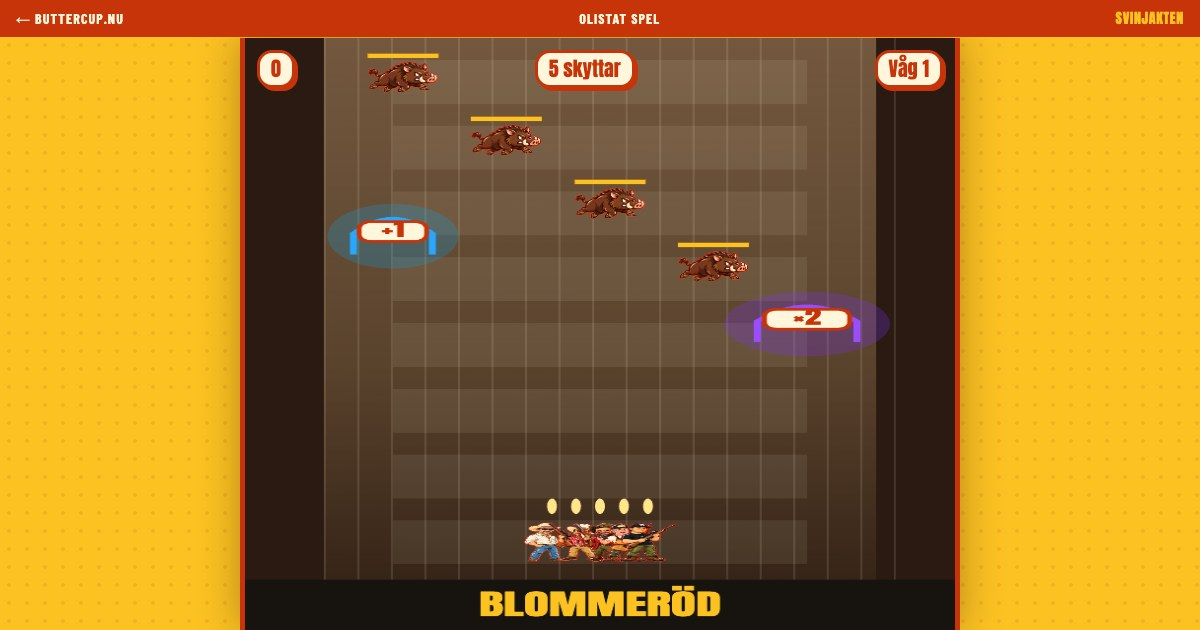
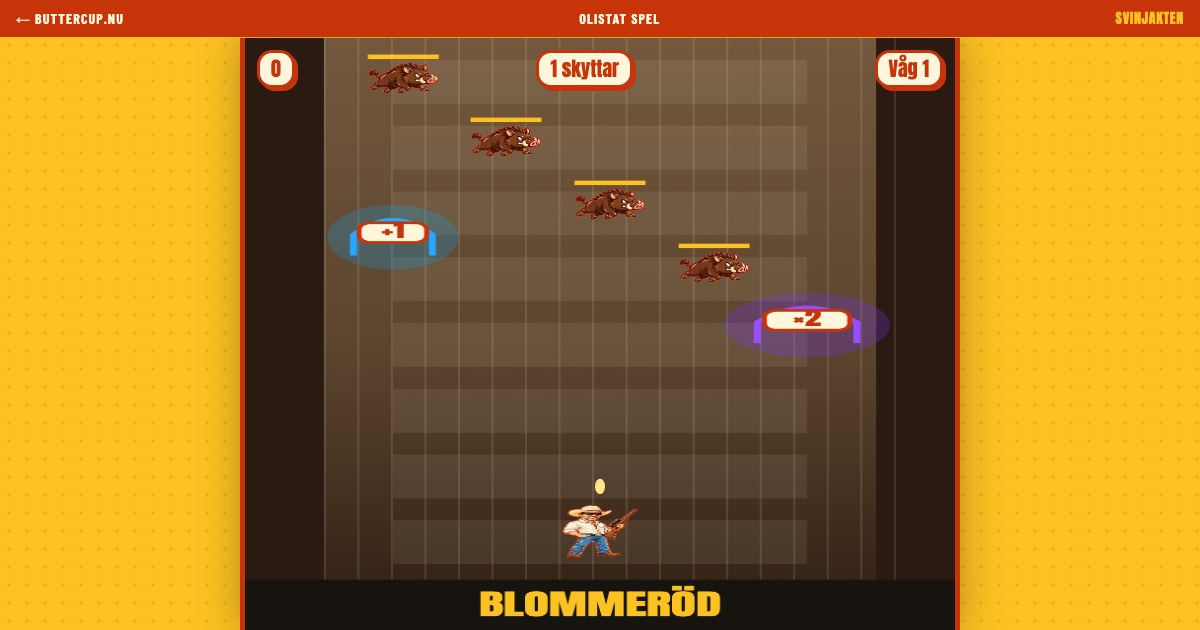
Svinjakten: starta med en skytt och väx med +1-portar

diff --git a/svinjakt/index.html b/svinjakt/index.html
@@ -23,7 +23,7 @@
 </head>
 <body>
 <div class="bc-bar"><a href="/">← Buttercup.nu</a><span>Olistat spel</span><b>Svinjakten</b></div>
-<div class="wrap"><div class="cab"><canvas id="game" width="720" height="1080"></canvas><div class="hud"><div class="pill" id="score">0</div><div class="pill" id="crew">5 skyttar</div><div class="pill" id="wave">Våg 1</div></div><div class="center" id="overlay"><div class="card"><p class="small">Blommeröd runner shooter</p><h1>SVIN<br>JAKTEN</h1><p>Dra Carl, Hugo, Peter, Jocke och Borka åt vänster/höger. Samla +1 och ×2, skjut vapenkort och stoppa megasvinet innan det når scenen.</p><div class="legend"><span>+1 skytt</span><span>×2 gäng</span><span>Garibaldi = eldkraft</span><span>Megasvin = boss</span></div><button id="start">Kör</button></div></div></div></div>
+<div class="wrap"><div class="cab"><canvas id="game" width="720" height="1080"></canvas><div class="hud"><div class="pill" id="score">0</div><div class="pill" id="crew">1 skytt</div><div class="pill" id="wave">Våg 1</div></div><div class="center" id="overlay"><div class="card"><p class="small">Blommeröd runner shooter</p><h1>SVIN<br>JAKTEN</h1><p>Börja med Peter. Skjut +1-portar så ansluter Hugo, Carl, Jocke och Borka en efter en. Dra gänget åt vänster/höger, skjut vapenkort och stoppa megasvinet innan det når scenen.</p><div class="legend"><span>+1 skytt</span><span>×2 gäng</span><span>Garibaldi = eldkraft</span><span>Megasvin = boss</span></div><button id="start">Kör</button></div></div></div></div>
 <script>
 (()=>{
 const cv=document.getElementById('game'),ctx=cv.getContext('2d');
@@ -31,13 +31,13 @@ const scoreEl=document.getElementById('score'),crewEl=document.getElementById('c
 const W=720,H=1080,assets={};
 const names=['peter','hugo','carl','jocke','borka'];
 [...names,'boar','megaboar','gate_plus','gate_x2'].forEach(k=>{const im=new Image();im.src=`img/${k}.webp`;assets[k]=im});
-let t=0,last=0,run=false,over=false,score=0,wave=1,kills=0,player={x:W/2,y:H-160,target:W/2},crew=5,bullets=[],boars=[],gates=[],cards=[],particles=[],power=1,fireTimer=0,spawnTimer=0,gateTimer=0,cardTimer=0,shake=0;
+let t=0,last=0,run=false,over=false,score=0,wave=1,kills=0,player={x:W/2,y:H-180,target:W/2},crew=5,bullets=[],boars=[],gates=[],cards=[],particles=[],power=1,fireTimer=0,spawnTimer=0,gateTimer=0,cardTimer=0,shake=0;
 function clamp(v,a,b){return Math.max(a,Math.min(b,v))}function rnd(a,b){return a+Math.random()*(b-a)}function hit(a,b){return Math.abs(a.x-b.x)<(a.w+b.w)/2&&Math.abs(a.y-b.y)<(a.h+b.h)/2}
-function reset(){t=0;last=0;run=true;over=false;score=0;wave=1;kills=0;player.x=player.target=W/2;crew=5;bullets=[];boars=[];gates=[];cards=[];particles=[];power=1;fireTimer=0;spawnTimer=.8;gateTimer=3.5;cardTimer=5.5;shake=0;for(let i=0;i<4;i++){spawnBoar(false);boars[i].y=70+i*115;boars[i].x=160+i*105}gates.push({x:150,y:360,w:95,h:95,typ:'plus',img:'gate_plus',vy:86});gates.push({x:570,y:520,w:120,h:95,typ:'x2',img:'gate_x2',vy:86});overlay.classList.add('hide');requestAnimationFrame(loop)}
+function reset(){t=0;last=0;run=true;over=false;score=0;wave=1;kills=0;player.x=player.target=W/2;crew=1;bullets=[];boars=[];gates=[];cards=[];particles=[];power=1;fireTimer=0;spawnTimer=.8;gateTimer=3.5;cardTimer=5.5;shake=0;for(let i=0;i<4;i++){spawnBoar(false);boars[i].y=70+i*115;boars[i].x=160+i*105}gates.push({x:150,y:360,w:95,h:95,typ:'plus',img:'gate_plus',vy:86});gates.push({x:570,y:520,w:120,h:95,typ:'x2',img:'gate_x2',vy:86});overlay.classList.add('hide');requestAnimationFrame(loop)}
 startBtn.onclick=reset;
 function pos(e){const r=cv.getBoundingClientRect();const x=(e.touches?e.touches[0].clientX:e.clientX)-r.left;player.target=clamp(x/r.width*W,90,W-90)}
 cv.addEventListener('pointerdown',e=>{cv.setPointerCapture(e.pointerId);pos(e)});cv.addEventListener('pointermove',pos);cv.addEventListener('touchmove',e=>{pos(e);e.preventDefault()},{passive:false});
-function laneX(i,n){const spread=Math.min(260,52+crew*9),u=n===1?.5:i/(n-1);return player.x+(u-.5)*spread}
+function laneX(i,n){const spread=Math.min(300,70+crew*14),u=n===1?.5:i/(n-1);return player.x+(u-.5)*spread}
 function spawnBoar(boss=false){const hp=(boss?70+wave*25:5+wave*1.8)*power**-.08;boars.push({x:rnd(80,W-80),y:-80,w:boss?145:72,h:boss?110:58,hp,max:hp,spd:boss?32+wave*2:72+wave*5,boss,img:boss?'megaboar':'boar',phase:rnd(0,9)})}
 function spawnGate(){const typ=Math.random()<.68?'plus':'x2';gates.push({x:rnd(105,W-105),y:-60,w:typ==='x2'?120:95,h:95,typ,img:typ==='x2'?'gate_x2':'gate_plus',vy:86+wave*2})}
 function spawnCard(){cards.push({x:rnd(110,W-110),y:-80,w:120,h:90,hp:22+wave*10,max:22+wave*10,label:Math.random()<.5?'STUDSARE':'GARIBALDI',vy:70+wave*2})}
@@ -50,7 +50,7 @@ function update(dt){t+=dt;player.x+=(player.target-player.x)*Math.min(1,dt*9);wa
  for(const b of bullets){for(const o of boars){if(!b.dead&&hit({...b,w:9,h:22},o)){b.dead=true;o.hp-=b.dam;boom(b.x,b.y,'#ffd15a',3);if(o.hp<=0&&!o.dead){o.dead=true;score+=o.boss?500:35;kills++;shake=o.boss?.22:.08;boom(o.x,o.y,o.boss?'#C8340A':'#8F1A00',o.boss?30:12)}}}
    for(const c of cards){if(!b.dead&&hit({...b,w:9,h:22},c)){b.dead=true;c.hp-=b.dam;boom(b.x,b.y,'#FCC222',3);if(c.hp<=0&&!c.dead){c.dead=true;power=Math.min(4,power+.35);score+=120;boom(c.x,c.y,'#FCC222',25)}}}}
  bullets=bullets.filter(b=>!b.dead);boars=boars.filter(o=>!o.dead&&o.y<H+120);cards=cards.filter(c=>!c.dead&&c.y<H+120);gates=gates.filter(g=>g.y<H+120);
- for(const g of gates){if(!g.used&&hit({x:player.x,y:player.y,w:Math.min(360,70+crew*18),h:120},g)){g.used=true;if(g.typ==='plus')crew=Math.min(30,crew+1);else crew=Math.min(40,crew*2);score+=80;boom(g.x,g.y,'#29a7ff',22)}}gates=gates.filter(g=>!g.used);
+ for(const g of gates){if(!g.used&&hit({x:player.x,y:player.y,w:Math.min(360,70+crew*18),h:120},g)){g.used=true;if(g.typ==='plus')crew=Math.min(30,crew+1);else crew=Math.min(40,Math.max(crew+1,crew*2));score+=80;boom(g.x,g.y,'#29a7ff',22)}}gates=gates.filter(g=>!g.used);
  for(const o of boars){if(o.y>player.y-35){gameOver(false);return}}
  if(kills>=55)gameOver(true);
  particles.forEach(p=>{p.x+=p.vx*dt;p.y+=p.vy*dt;p.vy+=260*dt;p.life-=dt});particles=particles.filter(p=>p.life>0);shake=Math.max(0,shake-dt);scoreEl.textContent=score;crewEl.textContent=crew+' skyttar';waveEl.textContent='Våg '+wave;}
@@ -61,7 +61,7 @@ function draw(){ctx.save();if(shake){ctx.translate(rnd(-8,8)*shake*5,rnd(-8,8)*s
  gates.forEach(g=>drawGate(g));cards.forEach(c=>{ctx.fillStyle='#FFF6DC';ctx.strokeStyle='#C8340A';ctx.lineWidth=5;roundRect(c.x-c.w/2,c.y-c.h/2,c.w,c.h,16,true,true);ctx.fillStyle='#C8340A';ctx.font='24px Anton';ctx.textAlign='center';ctx.fillText(c.label,c.x,c.y-7);ctx.fillStyle='#8F1A00';ctx.fillRect(c.x-c.w*.38,c.y+22,c.w*.76,10);ctx.fillStyle='#FCC222';ctx.fillRect(c.x-c.w*.38,c.y+22,c.w*.76*(c.hp/c.max),10)});
  boars.forEach(o=>{drawImg(o.img,o.x,o.y,o.w,o.h,true);ctx.fillStyle='#8F1A00';ctx.fillRect(o.x-o.w/2,o.y-o.h/2-14,o.w,8);ctx.fillStyle='#FCC222';ctx.fillRect(o.x-o.w/2,o.y-o.h/2-14,o.w*(o.hp/o.max),8)});
  bullets.forEach(b=>{ctx.fillStyle='#ffe68a';ctx.beginPath();ctx.ellipse(b.x,b.y,5,14,0,0,7);ctx.fill()});
- const n=Math.min(crew,18);for(let i=0;i<n;i++){const k=names[i%names.length];const x=laneX(i,n),row=Math.floor(i/9),y=player.y+row*38;drawImg(k,x,y,58,72)}
+ const n=Math.min(crew,18);for(let i=0;i<n;i++){const k=names[i%names.length];const x=laneX(i,n),row=Math.floor(i/9),y=player.y+row*38;drawImg(k,x,y,78,96)}
  particles.forEach(p=>{ctx.globalAlpha=Math.max(0,p.life/.7);ctx.fillStyle=p.c;ctx.beginPath();ctx.arc(p.x,p.y,p.r,0,7);ctx.fill();ctx.globalAlpha=1});ctx.restore();}
 
 function drawGate(g){ctx.save();ctx.translate(g.x,g.y);const isX=g.typ==='x2';ctx.fillStyle=isX?'rgba(120,50,255,.25)':'rgba(0,170,255,.22)';ctx.beginPath();ctx.ellipse(0,0,g.w*.7,g.h*.62,0,0,7);ctx.fill();ctx.strokeStyle=isX?'#9b4cff':'#29a7ff';ctx.lineWidth=7;ctx.beginPath();ctx.moveTo(-g.w*.42,g.h*.35);ctx.lineTo(-g.w*.42,-g.h*.05);ctx.quadraticCurveTo(0,-g.h*.62,g.w*.42,-g.h*.05);ctx.lineTo(g.w*.42,g.h*.35);ctx.stroke();ctx.fillStyle='#FFF6DC';ctx.strokeStyle='#C8340A';ctx.lineWidth=5;roundRect(-g.w*.36,-g.h*.28,g.w*.72,g.h*.38,12,true,true);ctx.fillStyle='#C8340A';ctx.font='34px Anton';ctx.textAlign='center';ctx.textBaseline='middle';ctx.fillText(isX?'×2':'+1',0,-g.h*.09);ctx.restore()}
